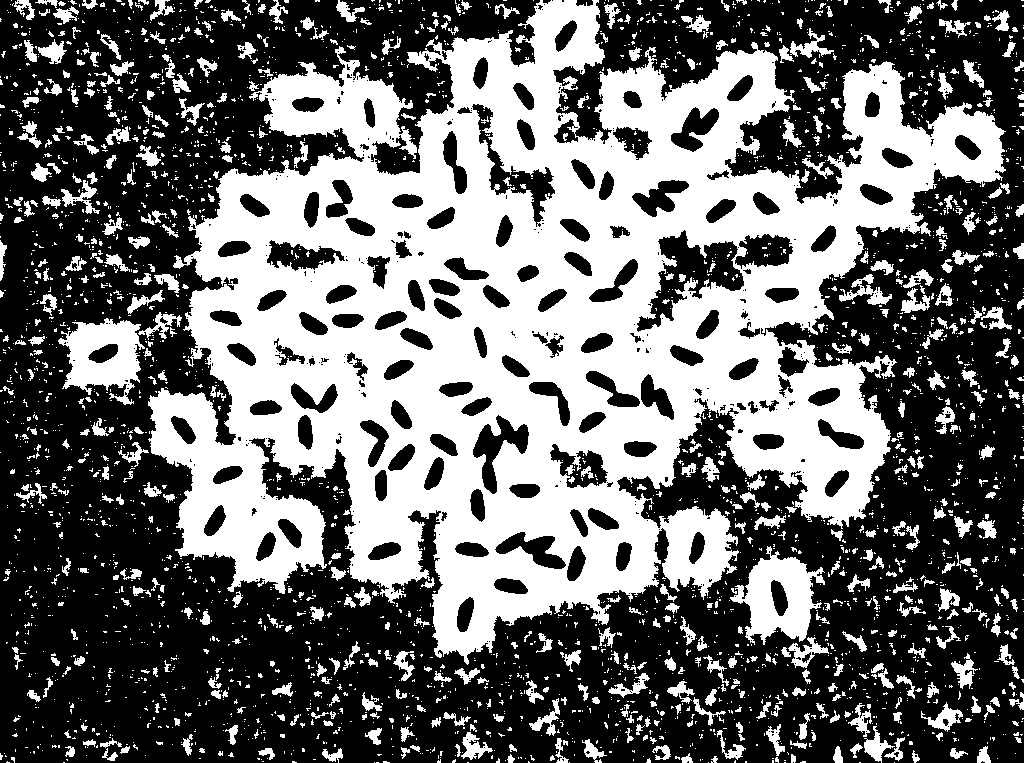
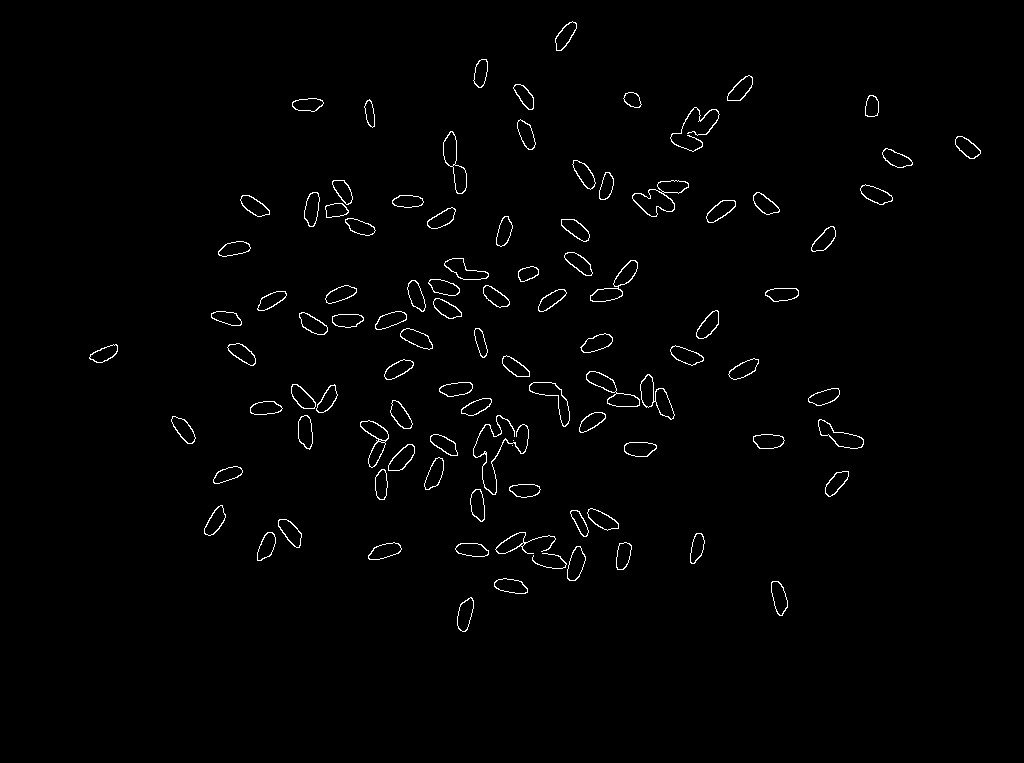
canny

diff --git a/main.py b/main.py
@@ -18,21 +18,25 @@ def main():
             print('Failed to open image. \n')
             sys.exit()
         
-        #img = img.astype(np.float32)/255
+        blur = cv2.bilateralFilter(img, 11, 85, 101)
+
+        # CannyAccThresh = cv2.threshold(img ,0,255, cv2.THRESH_BINARY|cv2.THRESH_OTSU)
+
+        # CannyThresh = 0.1 * CannyAccThresh
         
-        thr = cv2.adaptiveThreshold(img, 255, cv2.ADAPTIVE_THRESH_MEAN_C, cv2.THRESH_BINARY_INV, 51, 2)
-        blur = cv2.medianBlur(thr, 5)
-        #blur2 = cv2.GaussianBlur(blur, (5,5), 0)
+        edges = cv2.Canny(blur, 75, 100)
+        
+        '''blur = cv2.bilateralFilter(img, 9, 75, 75)
+        thr = cv2.adaptiveThreshold(blur, 255, cv2.ADAPTIVE_THRESH_MEAN_C, cv2.THRESH_BINARY_INV, 31, 2)
+        
         #ret, threshold2 = cv2.threshold(threshold, 0, 255, cv2.THRESH_BINARY_INV+cv2.THRESH_OTSU)
 
-        kernel = np.ones((1,1), np.uint8)
-        #sure_bg = cv2.dilate(threshold, kernel,iterations=1)
-        abertura = cv2.morphologyEx(blur, cv2.MORPH_OPEN, kernel, iterations=3)
-        fechamento = cv2.morphologyEx(abertura, cv2.MORPH_CLOSE, kernel, iterations=3)
-        #img3 = cv2.subtract(sure_bg, sure_fg)
+        kernel = np.ones((3,3), np.float32)
+        abertura = cv2.morphologyEx(thr, cv2.MORPH_OPEN, kernel, iterations=3)
+        fechamento = cv2.morphologyEx(abertura, cv2.MORPH_CLOSE, kernel, iterations=1)'''
 
 
-        cv2.imwrite(f'test{nome}.png', fechamento)
+        cv2.imwrite(f'test{nome}.png', edges)
         
 
 if __name__ == '__main__':
